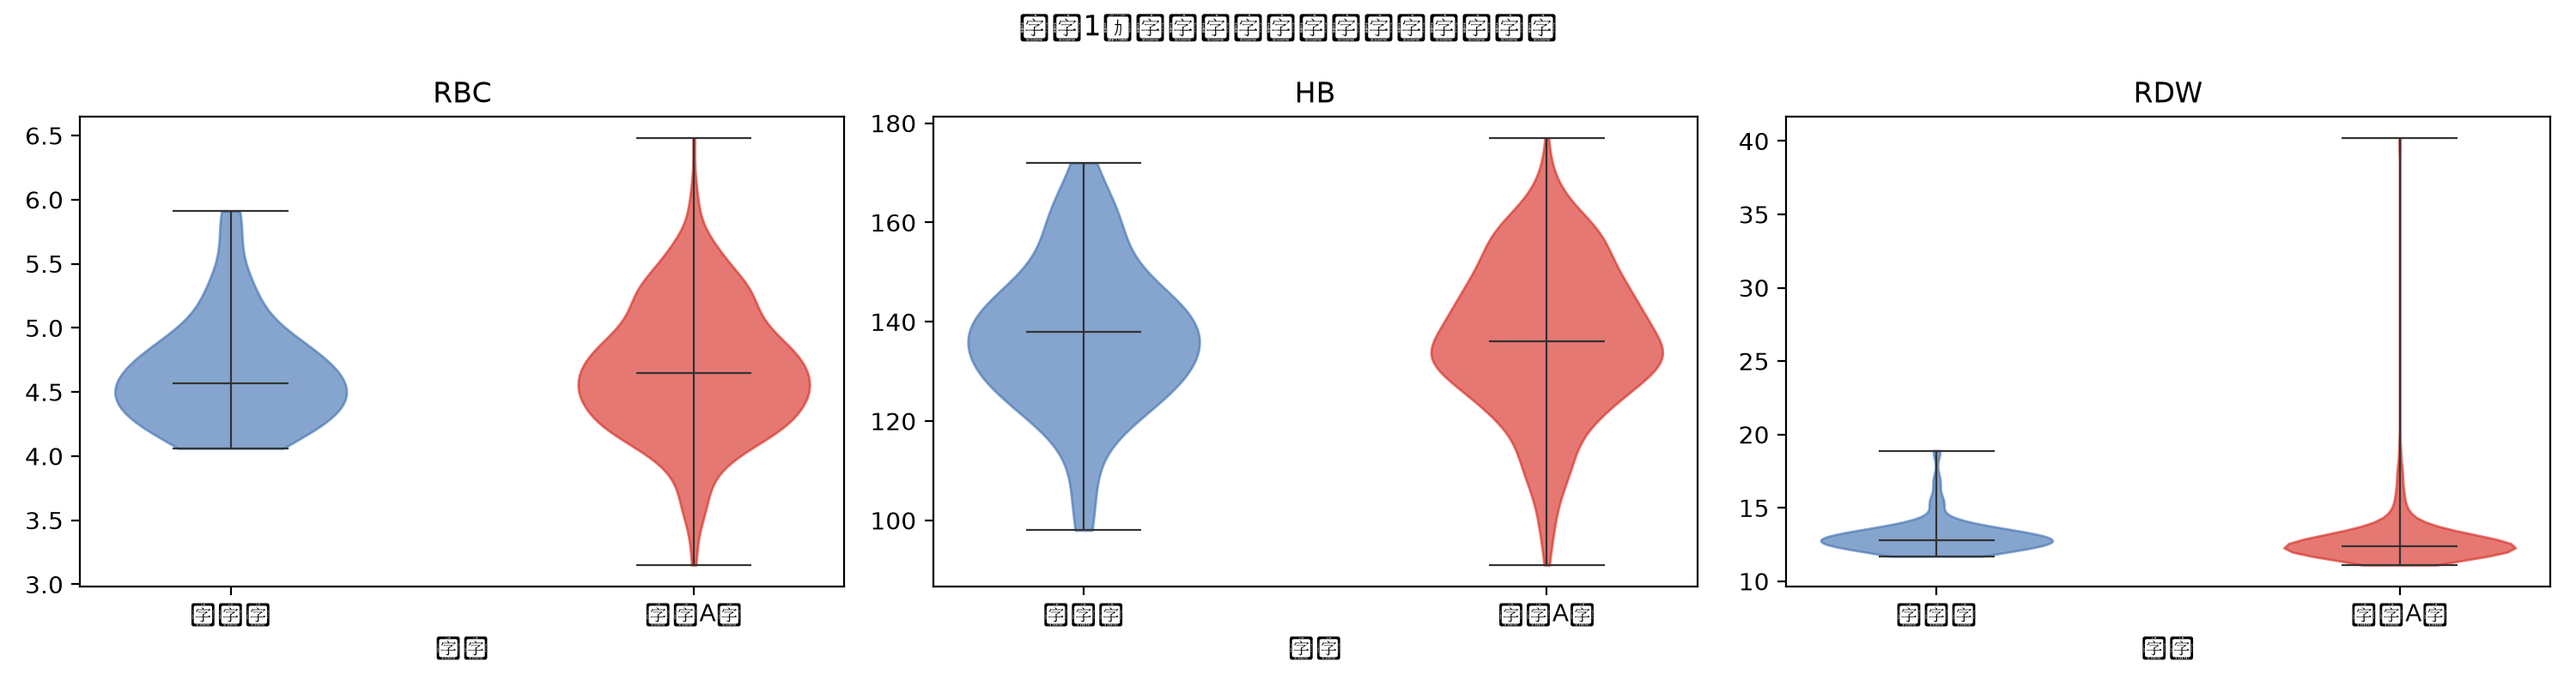
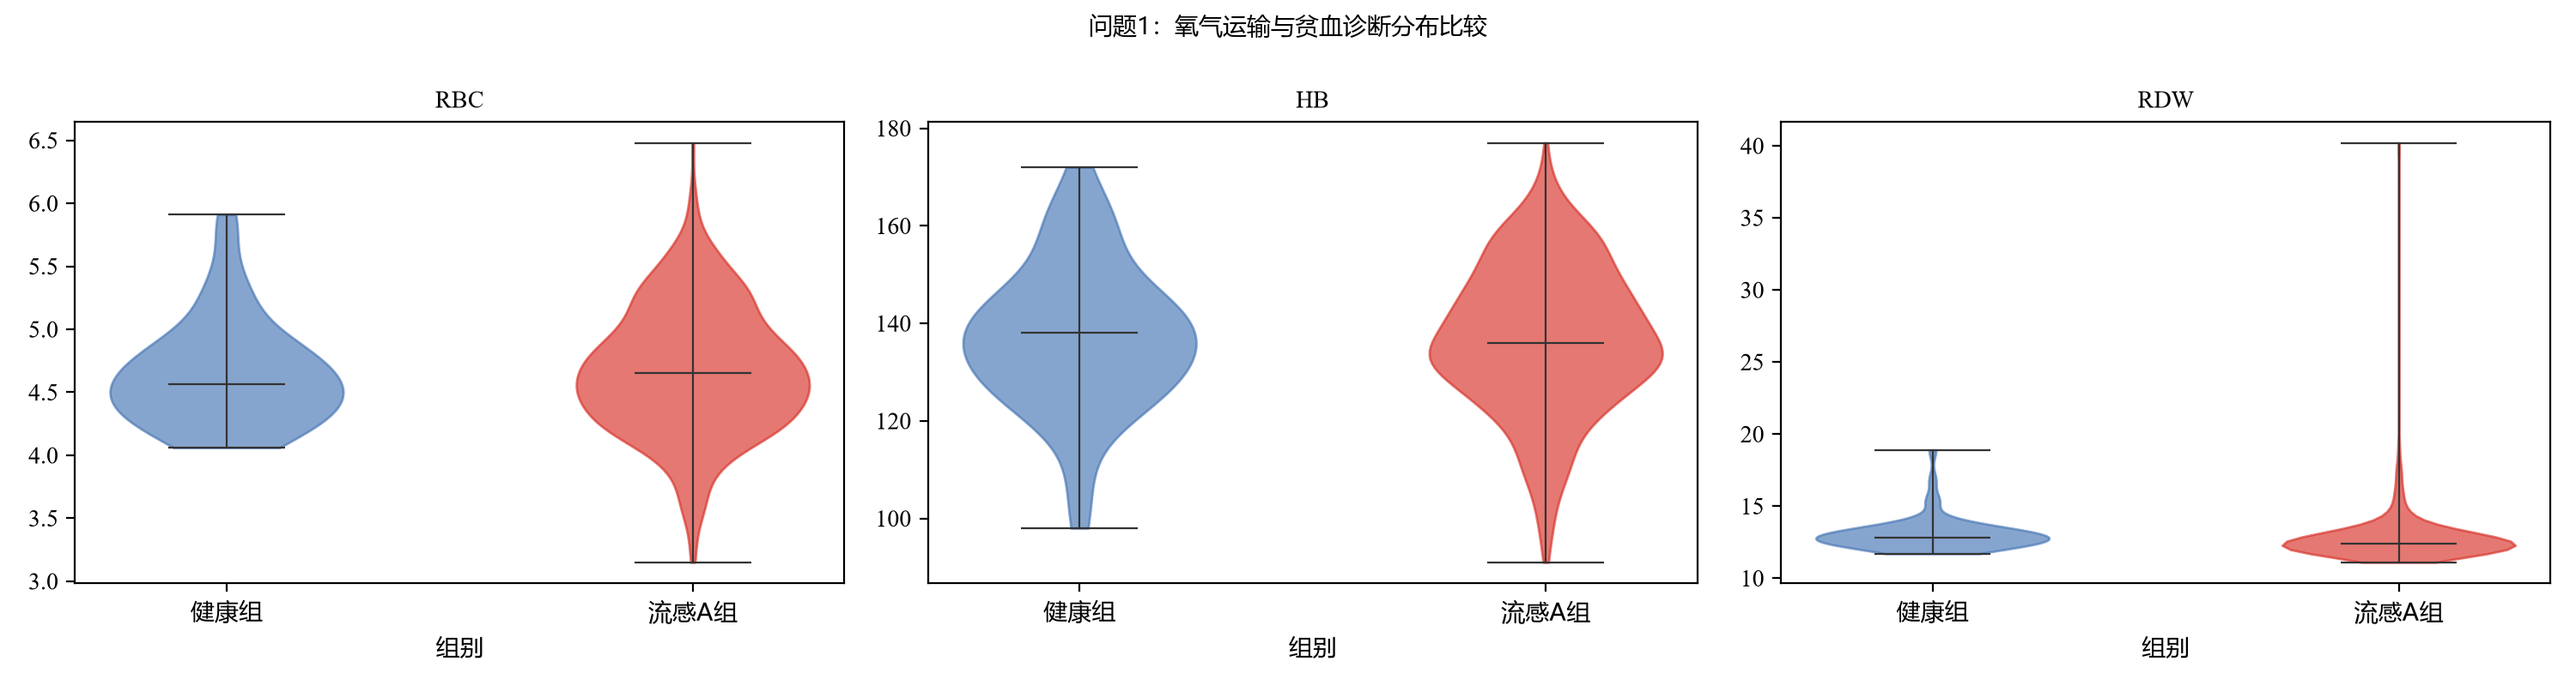
docs: 同步问题1分析与排版规范

diff --git a/问题1/问题1分析.py b/问题1/问题1分析.py
@@ -4,7 +4,7 @@ import warnings
 import numpy as np
 import pandas as pd
 import matplotlib.pyplot as plt
-from matplotlib.colors import Normalize
+from matplotlib.font_manager import FontProperties
 from scipy.stats import mannwhitneyu, chi2_contingency, fisher_exact, spearmanr, rankdata, gaussian_kde
 from sklearn.metrics import roc_auc_score, silhouette_score
 from sklearn.preprocessing import StandardScaler
@@ -19,6 +19,12 @@ OUTPUT_DIR = BASE_DIR / "问题1" / "问题1结果"
 FIGURE_DIR = OUTPUT_DIR / "附图"
 OUTPUT_DIR.mkdir(parents=True, exist_ok=True)
 FIGURE_DIR.mkdir(parents=True, exist_ok=True)
+
+# 图形字体规范：中文使用微软雅黑，英文和数字使用Times New Roman。
+FONT_CN = FontProperties(family="Microsoft YaHei")
+FONT_EN = FontProperties(family="Times New Roman")
+plt.rcParams["font.family"] = "Microsoft YaHei"
+plt.rcParams["axes.unicode_minus"] = False
 
 AGE = "年龄"
 SEX = "性别"
@@ -37,6 +43,19 @@ REFERENCE_INTERVALS = {
     "M": (0.1, 0.6), "RBC": (4.3, 5.8), "HB": (120.0, 160.0),
     "PLT": (125.0, 350.0), "RDW": (11.5, 14.5),
 }
+
+
+def apply_font_rules(fig):
+    """按文本内容设置字体：含中文使用微软雅黑，纯英文/数字使用Times New Roman。"""
+    for text in fig.findobj(plt.Text):
+        value = text.get_text()
+        text.set_fontproperties(FONT_CN if any("\u4e00" <= char <= "\u9fff" for char in value) else FONT_EN)
+
+
+def save_figure(fig, path):
+    apply_font_rules(fig)
+    fig.savefig(path, dpi=200)
+    plt.close(fig)
 
 
 def read_data():
@@ -184,8 +203,7 @@ def save_distribution_figures(data, descriptive):
             ax.set_xlabel("组别")
         fig.suptitle(f"问题1：{group_name}分布比较")
         fig.tight_layout()
-        fig.savefig(FIGURE_DIR / f"分布_{group_name}.png", dpi=200)
-        plt.close(fig)
+        save_figure(fig, FIGURE_DIR / f"分布_{group_name}.png")
     for col in ["WBC", "N", "L", "M", "PLT"]:
         transform_col = f"{col}_变换后"
         fig, axes = plt.subplots(1, 2, figsize=(10, 4))
@@ -194,15 +212,13 @@ def save_distribution_figures(data, descriptive):
         axes[0].set_title(f"{col}原始刻度")
         axes[1].set_title(f"{col}Box-Cox变换后")
         fig.tight_layout()
-        fig.savefig(FIGURE_DIR / f"变换对比_{col}.png", dpi=200)
-        plt.close(fig)
+        save_figure(fig, FIGURE_DIR / f"变换对比_{col}.png")
     fig, ax = plt.subplots(figsize=(7, 4))
     plot_log_density(ax, data, "NLR")
     ax.set_xscale("log")
     ax.set_title("NLR按组密度图（横轴为log刻度）")
     fig.tight_layout()
-    fig.savefig(FIGURE_DIR / "NLR按组密度图.png", dpi=200)
-    plt.close(fig)
+    save_figure(fig, FIGURE_DIR / "NLR按组密度图.png")
 
 
 def relation_analysis(data):
@@ -221,7 +237,8 @@ def relation_analysis(data):
             value = corr_all.iloc[i, j]
             ax.text(j, i, f"{value:.2f}", ha="center", va="center", fontsize=8)
     ax.set_title("全样本Spearman相关矩阵")
-    fig.tight_layout(); fig.savefig(FIGURE_DIR / "全样本相关热图.png", dpi=200); plt.close(fig)
+    fig.tight_layout()
+    save_figure(fig, FIGURE_DIR / "全样本相关热图.png")
     validation = []
     for pair, hypothesis in [(("RBC", "HB"), "H1/H6氧气运输结构"), (("WBC", "N"), "H6免疫结构")]:
         row = {"指标1": pair[0], "指标2": pair[1], "假设": hypothesis}
@@ -277,14 +294,16 @@ def effect_heatmap(diff):
     for i, value in enumerate(values[:, 0]):
         ax.text(0, i, f"{value:.2f}", ha="center", va="center")
     ax.set_title("效应量热图")
-    fig.tight_layout(); fig.savefig(FIGURE_DIR / "效应量热图.png", dpi=200); plt.close(fig)
+    fig.tight_layout()
+    save_figure(fig, FIGURE_DIR / "效应量热图.png")
     fig, ax = plt.subplots(figsize=(9, 4))
     plot_data = ordered.sort_values("AUC强度", ascending=True)
     colors = plot_data["所属功能组"].map({"基本信息": "#777777", "氧气运输与贫血诊断": "#1b9e77", "免疫防御与感染鉴别": "#d95f02", "凝血与止血": "#7570b3"})
     ax.barh(plot_data["变量"], plot_data["AUC强度"], color=colors)
     ax.axvline(.5, color="black", ls="--", lw=1)
     ax.set_xlim(.5, 1); ax.set_xlabel("AUC强度（方向折叠后）"); ax.set_title("单变量AUC排序")
-    fig.tight_layout(); fig.savefig(FIGURE_DIR / "单变量AUC排序.png", dpi=200); plt.close(fig)
+    fig.tight_layout()
+    save_figure(fig, FIGURE_DIR / "单变量AUC排序.png")
 
 
 def reference_abnormal(data):
@@ -347,7 +366,8 @@ def clustering_analysis(data):
         for j in range(profile.shape[1]):
             ax.text(j, i, f"{profile.iloc[i, j]:.2f}", ha="center", va="center", fontsize=8)
     ax.set_title(f"Ward层次聚类簇剖面（K={best_k}）")
-    fig.tight_layout(); fig.savefig(FIGURE_DIR / "聚类簇剖面.png", dpi=200); plt.close(fig)
+    fig.tight_layout()
+    save_figure(fig, FIGURE_DIR / "聚类簇剖面.png")
 
 
 def write_summary(diff, combo, data):

diff --git a/问题1/问题1分析报告.md b/问题1/问题1分析报告.md
@@ -1,4 +1,6 @@
-# 问题1：两类样本的数据特征分析报告（初稿）
+# 问题1：两类样本的数据特征分析报告
+
+> 排版规范：正式文档中中文字体使用“微软雅黑”，英文、数字及统计符号使用“Times New Roman（新罗马）”。本规范同时适用于报告正文、表格、图题、坐标轴标题和图例。
 
 ## 摘要
 
@@ -194,12 +196,30 @@
 
 脚本构造并比较 NLR=N/L、MLR=M/L、PLR=PLT/L 与 N、L、M 单指标。NLR 的评价包括 Mann–Whitney U、Cliff's delta、原始 p 值、BH 校正 p 值和单变量 AUC。
 
-正式结论应以 `问题1结果/组合指标评估.csv` 的实际运行值为准：若 NLR 的 AUC 强度高于 N 与 L，则可称“组合信息压缩在当前样本中具有统计描述上的增益”；若未超过，则应如实表述为“未观察到优于单指标的证据”。无论哪种结果，NLR 都不能直接转换为临床阈值或诊断标准。
+脚本实际计算得到的组合指标结果如下：
+
+| 指标 | Cliff's delta | 单变量 AUC | BH 校正 p |
+|---|---:|---:|---:|
+| N | 0.586 | 0.793 | 3.84×10⁻¹² |
+| L | -0.827 | 0.087（方向折叠后 0.913） | 2.30×10⁻²² |
+| M | 0.819 | 0.909 | 4.27×10⁻²² |
+| NLR=N/L | 0.866 | 0.933 | 3.07×10⁻²⁴ |
+| MLR=M/L | 0.979 | 0.990 | 2.29×10⁻³⁰ |
+| PLR=PLT/L | 0.726 | 0.863 | 9.47×10⁻¹⁸ |
+
+在本数据中，MLR 的单变量 AUC 最高，达到 0.990；NLR 的 AUC 为 0.933，高于 N、L、M 三个单项指标的方向折叠后 AUC。因而，数据对 H4 提供了支持：以当前样本为范围，免疫相关比值指标具有较强的统计区分能力。不过，这些 AUC 来自同一批样本上的单变量描述，未经过独立测试集或交叉验证，不能直接作为问题二模型的泛化性能，也不能据此确定临床阈值。
 
 ### 6.2 两级结论
 
-- **功能组层面**：使用各功能组内 Cliff's delta 绝对值均值和单变量 AUC 强度中位数排序，比较免疫防御、氧气运输和凝血止血三个维度的整体区分信息。
-- **变量层面**：优先关注 L、M、N；年龄、WBC、PLT、RDW 作为补充候选；RBC、HB 作为结构解释或协变量候选，而非主要差异指标。
+功能组综合结果为：
+
+| 功能组 | 组内效应量绝对值均值 | 组内 AUC 强度中位数 |
+|---|---:|---:|
+| 免疫防御与感染鉴别 | 0.633 | 0.851 |
+| 凝血与止血 | 0.280 | 0.640 |
+| 氧气运输与贫血诊断 | 0.117 | 0.528 |
+
+因此，当前数据中免疫防御与感染鉴别维度最具区分信息；凝血维度提供较弱的补充信息；氧气运输维度的组间位置差异最弱。变量层面建议问题二优先考察 L、M、N 及 NLR/MLR，同时将年龄、WBC、PLT、RDW 作为候选补充变量，并对高度相关的变量进行去冗余比较。
 
 ---
 
@@ -217,7 +237,15 @@
 - `问题1结果/异常计数比较.csv`
 - `问题1结果/异常模式频次.csv`
 
-本部分的结论应使用“在所采用的暂定参考区间下，某组异常比例更高”这一表述，不能将参考区间越界直接解释为流感 A 的临床诊断标准。
+参考区间异常模式的实际结果显示：
+
+- 流感 A 组 L 异常比例为 65.69%，健康组为 5.77%，两组比较 p=6.38×10⁻¹⁸；
+- 流感 A 组 M 异常比例为 59.21%，健康组为 1.92%，p=1.42×10⁻¹⁷；
+- 流感 A 组 N 异常比例为 26.57%，健康组为 1.92%，p=9.21×10⁻⁶；
+- 流感 A 组 WBC 异常比例为 15.48%，健康组为 3.85%，p=0.0207；
+- RBC、HB、PLT、RDW 的异常比例比较未达到显著水平。
+
+每个样本的异常指标数方面，健康组中位数为 0、IQR 为 1，流感 A 组中位数为 2、IQR 为 2，两组 Mann–Whitney U=21306.5，p=3.23×10⁻¹⁸。异常模式频次中，流感 A 组最常见的模式为 M 偏低（68 例）、L 偏低（63 例）以及 L 偏低+M 偏低（59 例）；健康组有 33 例全部正常。这里的“异常”完全依赖暂定参考区间，不能直接当作临床诊断标准。
 
 ---
 
@@ -232,7 +260,9 @@
 - `问题1结果/聚类簇剖面.csv`
 - `问题1结果/附图/聚类簇剖面.png`
 
-聚类结果只用于描述数据中是否存在自然血象表型，不把聚类簇直接等同于疾病类别。若簇内标签构成与功能组差异方向收敛，可作为相互印证；若不收敛，应从年龄结构、样本比例、异常值和指标相关结构等方面讨论原因。
+聚类实际选择 K=2，轮廓系数为 0.169。两个簇与原始标签并未完全对应：簇 0 包含健康组 14 例、流感 A 组 236 例，流感组比例为 94.4%；簇 1 包含健康组 38 例、流感 A 组 242 例，流感组比例为 86.4%。这说明血象变量能够形成两个具有不同标准化指标剖面的自然簇，但不能将聚类结果直接解释为流感/健康二分类。
+
+簇 0 的 WBC、N、L、M、RBC、HB、PLT 变换后标准化均值整体偏高，簇 1 整体偏低，而 RDW 两簇接近。这种结果说明聚类主要捕捉到了血象整体水平差异，而不是清晰重构原始标签。结合较低的轮廓系数和明显的类别不平衡，聚类结果应作为辅助证据，不应替代监督式判别模型。
 
 ---
 
@@ -261,14 +291,18 @@
 
 ---
 
-## 11 可复现运行说明
+### 11.1 可复现运行说明
 
-在具备依赖的 Python 环境中运行：
+在具备所需依赖的 Python 环境中运行：
 
 ```bash
 python3 "问题1/问题1分析.py"
 ```
 
-脚本固定随机种子 `SEED=2024`，从 `数据预处理结果/data_merged.csv` 读取预处理数据，将表格和图形写入 `问题1/问题1结果/`，不会修改题目原始附件。
+脚本固定随机种子 `SEED=2024`，从 `数据预处理结果/data_merged.csv` 读取预处理数据，将表格和图形写入 `问题1/问题1结果/`，不会修改题目原始附件。图形输出已统一设置为：中文使用“微软雅黑”，英文、数字和统计符号使用“Times New Roman”。
 
-当前仓库本地运行环境仅提供 `openpyxl`、`xlrd` 等读取组件，尚未提供 `numpy`、`pandas`、`scipy`、`matplotlib`、`seaborn`、`statsmodels` 和 `scikit-learn`。因此本轮已完成脚本静态语法检查，但未在当前环境执行完整数值分析；缺少依赖时不应把尚未生成的 AUC、异常模式和聚类数值写成既定事实。预处理阶段已有数值结果已据实写入本报告，脚本运行后应以 `问题1结果/` 中的新结果表和图形补齐需要运行环境支持的部分。
+当前报告已根据已有运行结果表更新组合指标、功能组比较、参考区间异常模式和聚类结论。若重新运行后结果文件发生变化，应以重新生成的 CSV 和 PNG 为准同步修订报告。
+
+### 11.2 设备依赖说明
+
+目标设备此前因缺少 `seaborn` 和 `statsmodels` 导入失败；脚本已经分别使用 matplotlib 原生接口和 NumPy BH-FDR 实现替代，因此不再依赖这两个库。当前脚本仍需要 `numpy`、`pandas`、`scipy`、`matplotlib` 和 `scikit-learn`。

diff --git a/AGENTS.md b/AGENTS.md
@@ -60,3 +60,5 @@ pandoc -t markdown '题目/数学建模训练题目.docx'
 - 用户明确要求推送/提交时，完成必要检查后直接执行，不要反复确认或进行冗长说明；只有发现阻塞、风险或需要用户决策时才暂停并说明。
 - 当前设备运行问题1分析脚本时不可用 `statsmodels`，不要把它作为运行依赖。问题1脚本已使用 NumPy 实现 Benjamini-Hochberg FDR 校正，保持方案中的多重比较校正口径不变。目标设备若仍缺少其他科学计算依赖，应只报告实际缺失项，不修改原始数据。
 - 环境排障记录：设备先因缺少 `seaborn` 在导入阶段失败，后因缺少 `statsmodels` 在导入阶段失败；两项依赖均已从问题1脚本中移除。后续遇到同类 `ModuleNotFoundError` 时，先确认依赖是否仅用于绘图或统计辅助，再优先使用已有 `matplotlib`、`numpy`、`scipy` 实现等价功能，避免在设备上安装额外库；替换后必须执行语法检查并搜索确认旧依赖未被引用。
+- 报告与图形排版规范：中文统一使用“微软雅黑（Microsoft YaHei）”，英文、数字和统计符号统一使用“Times New Roman（新罗马）”。问题1脚本生成图形时必须调用统一字体设置，不得只设置中文字体而遗漏英文、数字或图例；分析报告、表格、图题和坐标轴也遵循同一规范。
+- 重新运行与报告同步：问题1脚本重新运行后，应优先读取 `问题1/问题1结果/` 下最新 CSV 和 PNG，再更新 `问题1/问题1分析报告.md` 中的实际数值和结论；不得用旧结果覆盖新结果，也不得在未运行时虚构 AUC、组合指标或聚类数值。
